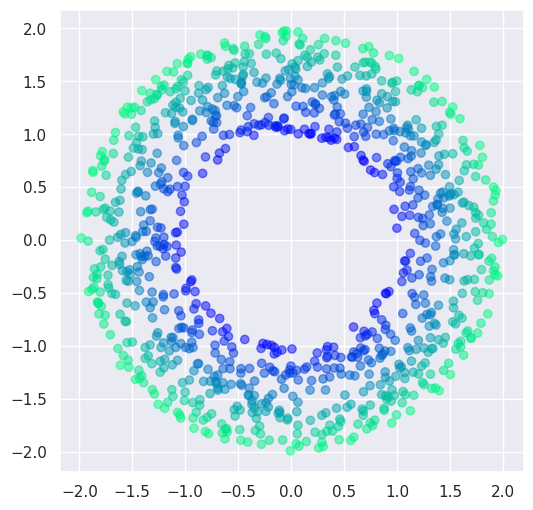
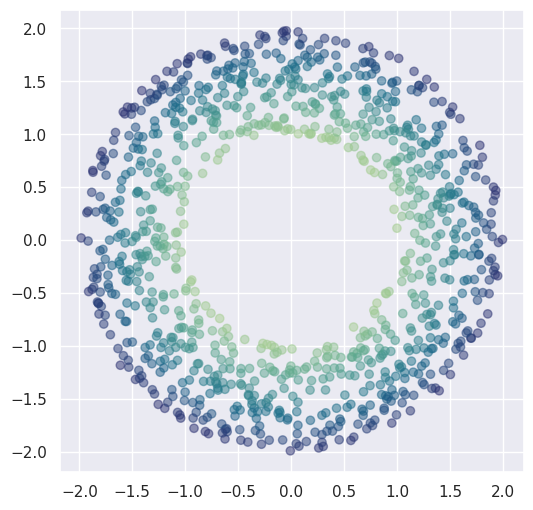
plots

Changed region(s): [[0.1501, 0.0294, 0.9606, 0.9118]]

diff --git a/src/data_plots.py b/src/data_plots.py
@@ -25,9 +25,8 @@ datas = {
 for name, data in datas.items():
     dim = name.split("_")[-1]
     if name.startswith("hyperspherical_shell"):
-        print(name)
         c = [np.linalg.norm(x-np.zeros(int(dim[0]))) for x in data]
-        cmap = "winter"
+        cmap = "crest"
     else:
         c = None
         cmap = None
